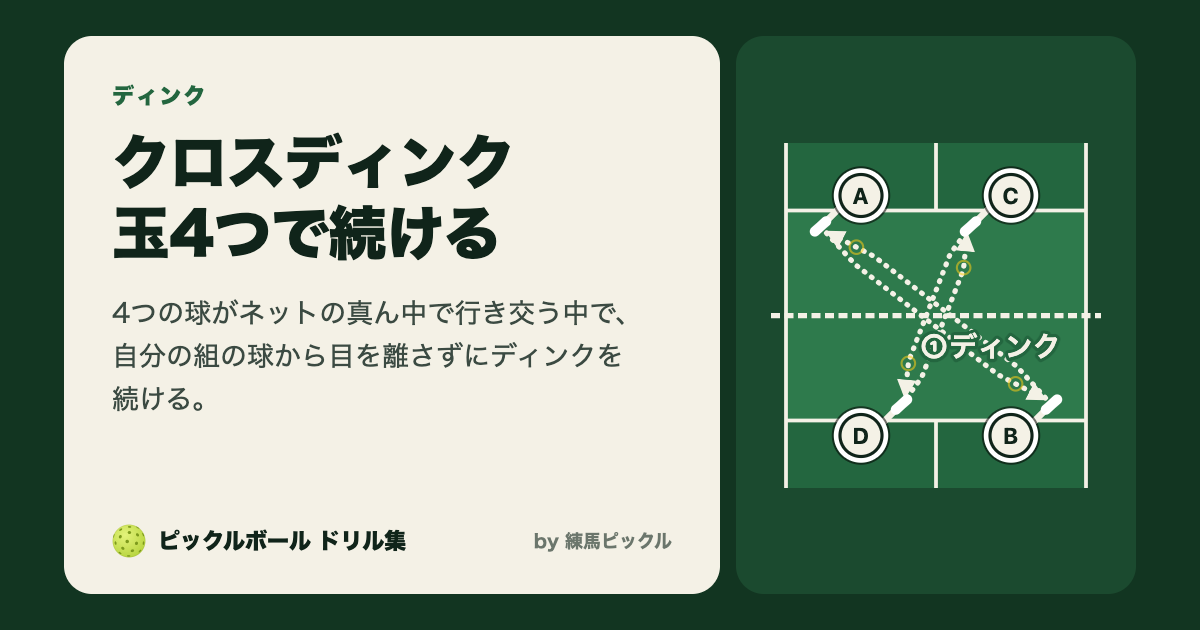
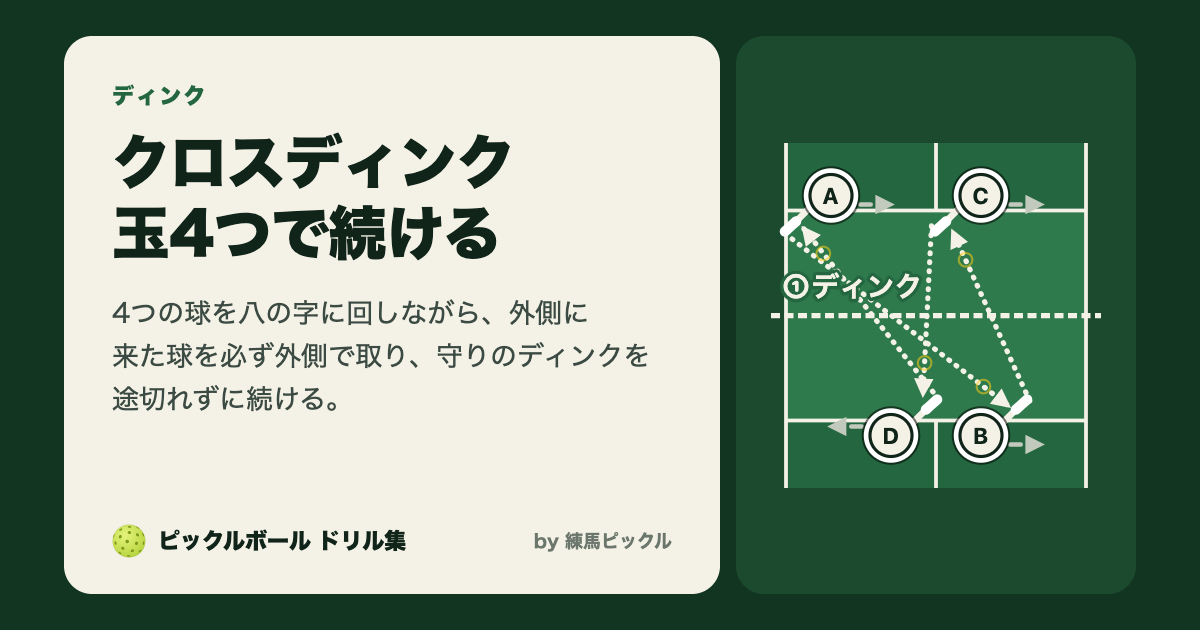
dnk005: figure-eight rotation of four balls, always take the ball on the outside, defensive dink scene, restart rule
Claude-Session: https://claude.ai/code/session_013HpVCpnFevpdjrfSLpZjQ3

Changed region(s): [[0.6475, 0.2413, 0.8942, 0.754], [0.0925, 0.5429, 0.555, 0.6635], [0.1542, 0.4524, 0.5242, 0.5127]]

diff --git a/src/content/docs/drills/dnk/dnk005.md b/src/content/docs/drills/dnk/dnk005.md
@@ -1,6 +1,6 @@
 ---
 title: クロスディンク 玉4つで続ける
-description: 4人で対角に2組を作り、4つの球を同時に使ってクロスのディンクを打ち合う
+description: 4人で4つの球を八の字に回し、外側に来た球を守りのディンクで返し続ける
 sidebar:
   order: 6
 drill:
@@ -8,37 +8,41 @@ drill:
   category: dnk
   aliases:
     - 続けるクロスディンク
-  scene: 4人ともキッチンラインに並び、ディンクの打ち合いになっている。どちらかが浮いた球を出すと、相手に攻められる。
-  purpose: 相手にノーバウンドで強く打たれない低さで、相手のキッチンに落とし続ける。コース・深さ・速さを変えて相手を揺さぶり、ミスや浮いた球を誘って、浮いた球をこちらから攻める。
-  focus: 4つの球がネットの真ん中で行き交う中で、自分の組の球から目を離さずにディンクを続ける。
-  setup: 4人で1面を使い、クロス（対角）の2組を作る。4人ともキッチンライン付近に立ち、球を1つずつ持つ。
-  feed: 4人が同時にクロスにディンクを出して始める。
+    - 八の字ディンク
+  scene: 4人ともキッチンラインに並び、ディンクの打ち合いになっている。相手が速めのディンクや足元への球で攻めてきて、こちらは押されている。
+  purpose: 無理に攻め返さず、相手にノーバウンドで強く打たれない低さで、確実に相手のキッチンへ返し続ける。ミスをせずにしのぎ、互角のディンクの打ち合いに戻す。
+  focus: 4つの球を八の字に回しながら、外側に来た球を必ず外側で取り、守りのディンクを途切れずに続ける。
+  setup: 4人で1面を使い、4人ともキッチンライン付近に立つ。1人1つずつ球を持つ。基本の位置は自分のレーンの真ん中より少し内側。
+  feed: 4人が同時に、八の字の次の人へディンクを出して始める。
   steps:
-    - 4人とも球を1つずつ持ち、同時に対角の相手へディンクを出す
-    - 来た球をディンクで対角の相手のキッチンに返す
-    - 自分の組の2つの球を落とさずにラリーを続ける
+    - 奥の2人はクロス、手前の2人はストレートに打ち、球を八の字に回す（奥の左 → 手前の右 → 奥の右 → 手前の左 → 奥の左）
+    - 来た球は必ず外側（サイドライン側）へサイドステップして取る。続けようとして内側で取らない
+    - 打ったら基本の位置へ戻る
+    - 球が3つに減っても続ける。2つか1つになったら失敗にして、4つの球から出し直す
   points:
     - 体の横ではなく、体の前（足の前）で打つ
     - パドルのヘッドを下げた形から打ち出す。ストロークのように後ろから振らない
     - 打ったらすぐパドルを体の前に戻す
-    - 自分の組の球だけを見て、ほかの球に気を取られない
+    - 内側で取らず、必ず外側（サイドライン側）で取る。試合で外側に来た球を確実に返すため
     - 速さより、4つの球を続けることを優先する
   diagram:
     rally: true
+    # 八の字: 奥の左 A → 手前の右 B（クロス）→ 奥の右 C（ストレート）→ 手前の左 D（クロス）→ A（ストレート）。
+    # 4人とも、基本の位置（少し内側）から外側へサイドステップして取る（書き手の決まり: 必ず外側で取る）
     players:
-      - { id: A, at: far-left-kitchen, role: practice }
-      - { id: B, at: near-right-kitchen, role: practice }
-      - { id: C, at: far-right-kitchen, role: practice }
-      - { id: D, at: near-left-kitchen, role: practice }
+      - { id: A, at: far-leftInner-kitchen, sidestep: far-leftOuter-kitchen, role: practice }
+      - { id: B, at: near-rightInner-kitchen, sidestep: near-rightOuter-kitchen, role: practice }
+      - { id: C, at: far-rightInner-kitchen, sidestep: far-rightOuter-kitchen, role: practice }
+      - { id: D, at: near-leftInner-kitchen, sidestep: near-leftOuter-kitchen, role: practice }
     shots:
       - { from: A, to: B, type: dink, n: 1, bounce: front }
-      - { from: B, to: A, type: dink, n: 1, bounce: front }
+      - { from: B, to: C, type: dink, n: 1, bounce: front }
       - { from: C, to: D, type: dink, n: 1, bounce: front }
-      - { from: D, to: C, type: dink, n: 1, bounce: front }
-      - { from: B, to: A, type: dink, n: 2, bounce: front }
+      - { from: D, to: A, type: dink, n: 1, bounce: front }
       - { from: A, to: B, type: dink, n: 2, bounce: front }
+      - { from: B, to: C, type: dink, n: 2, bounce: front }
       - { from: C, to: D, type: dink, n: 2, bounce: front }
-      - { from: D, to: C, type: dink, n: 2, bounce: front }
+      - { from: D, to: A, type: dink, n: 2, bounce: front }
   builderDefault:
     min: 2
     sets: 5
